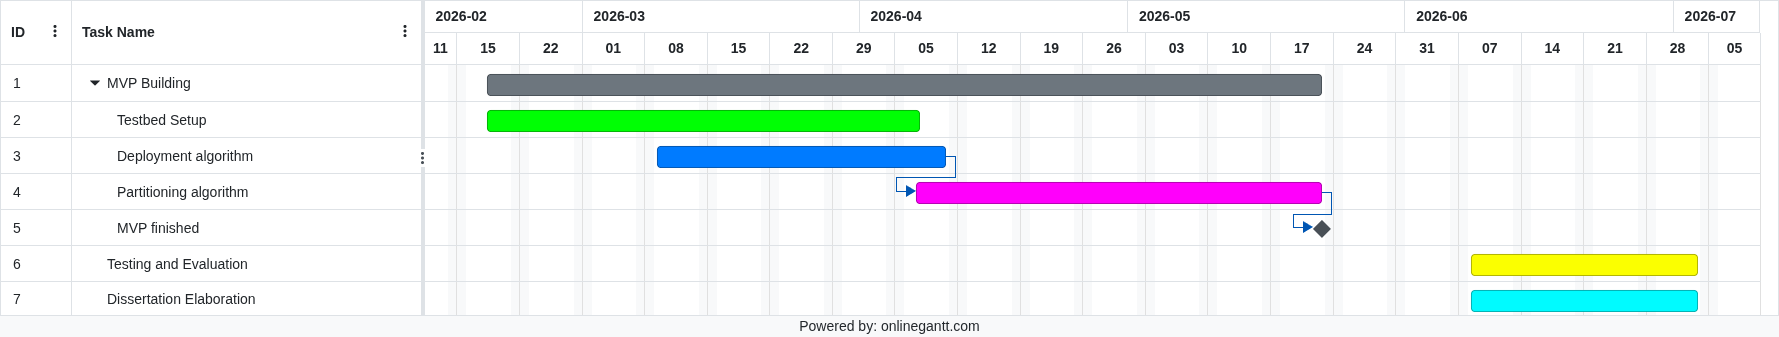
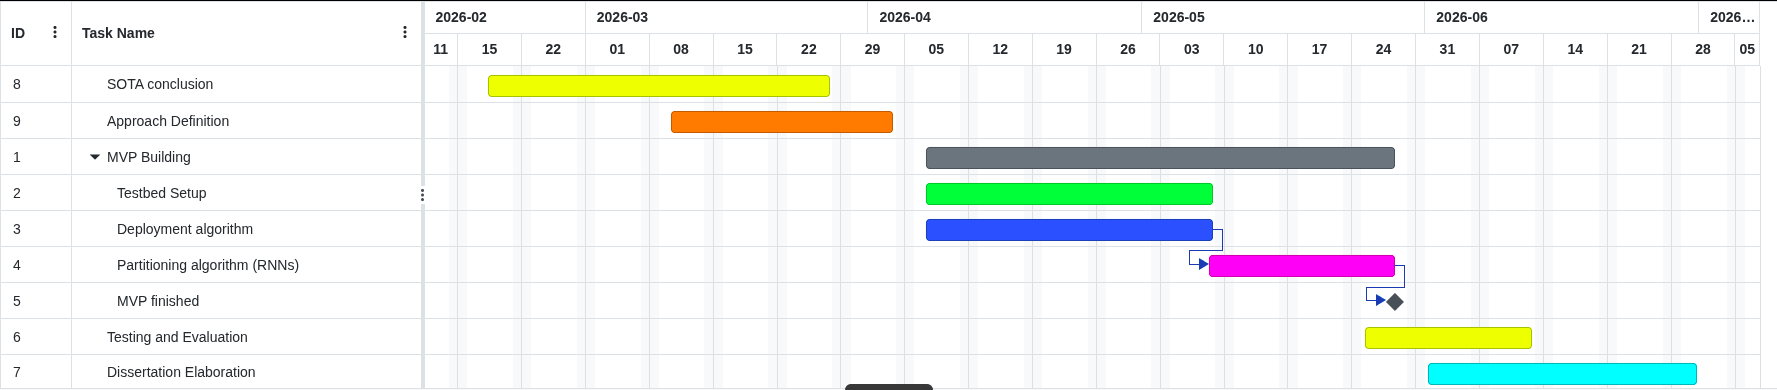
Literature review query 3 corrected

diff --git a/document/body/chapter2.tex b/document/body/chapter2.tex
@@ -50,7 +50,7 @@ proximity and wildcard operators were adapted to each digital library's syntax.}
 \begin{enumerate}
     \item ("dynamic partitioning" OR "dynamic splitting" OR "model partitioning" OR "model splitting" OR "adaptive partitioning" OR "adaptive splitting") AND "inference" AND ("ML model*" OR "DNN") AND ("Edge" OR "Far-Edge")	
     \item (("resource-aware" OR "network-aware" OR "adaptive") NEAR/5 ("schedul*" OR "orchestrat*" OR "allocation") ) AND ( "inference" OR "ML model*" OR "DNN" OR "AI workload*") AND ("Edge" OR "IoT" OR "Far-Edge")
-    \item (("inference" AND ("offload*" OR "decision*")) OR "inference offloading") AND ("resource-aware" OR "latency-aware" OR "adaptive" OR "resource-constrained") AND ("TinyML" OR "MCU" OR "microcontroller*")
+    \item ("inference offload*" OR "model offload*" OR "task offload*") AND ("resource-aware" OR "latency-aware" OR "adaptive" OR "resource-constrained") AND ("TinyML" OR "MCU" OR "microcontroller*")
 \end{enumerate}
 
 \subsection{Inclusion and Exclusion Criteria} \label{sec:se222}
@@ -70,6 +70,7 @@ exclude the documents found:
         & IC2 & Date of publication since 2018 (inclusive). \\
         & IC3 & The publication addresses constrained devices. \\
         & IC4 & The publication discusses network deployment or topics pertinent to it. \\
+        % TODO refinar os critérios de inclusão
         \midrule
         \multirow{5.5}{*}{\rotatebox{90}{Exclusion}} 
         & EC1 & It is a duplicate result. \\
@@ -113,9 +114,9 @@ and exclusion criteria.
 \hline
 2 & 93 & 8 & 95 & 196 \\
 \hline
-3 & 43 & 14 & 39 & 96 \\
+3 & 6 & 0 & 6 & 12 \\
 \hline
-\textbf{Total} & 190 & 46 & 205 & \textbf{441} \\
+\textbf{Total} & 153 & 32 & 172 & \textbf{357} \\
 \hline
 \end{tabular}
 \vspace{2mm}

diff --git a/document/body/chapter4.tex b/document/body/chapter4.tex
@@ -7,7 +7,7 @@ orchestration in edge computing, we found that current frameworks tend to
 make use of less constrained devices and use more powerful and even less 
 constrained devices only in the later stages of the inference tasks, which may 
 not be the most optimal approach in a network when the goal is to make full use 
-of all available devices, like a private local cluster. Additionally, there is a 
+of all available devices, similar to a private local cluster. Additionally, there is a 
 lack of available partitioning methods tackling models with cyclic topology 
 (e.g., \acp{RNN}, MobileNets, etc.) to the edge environment.
 
